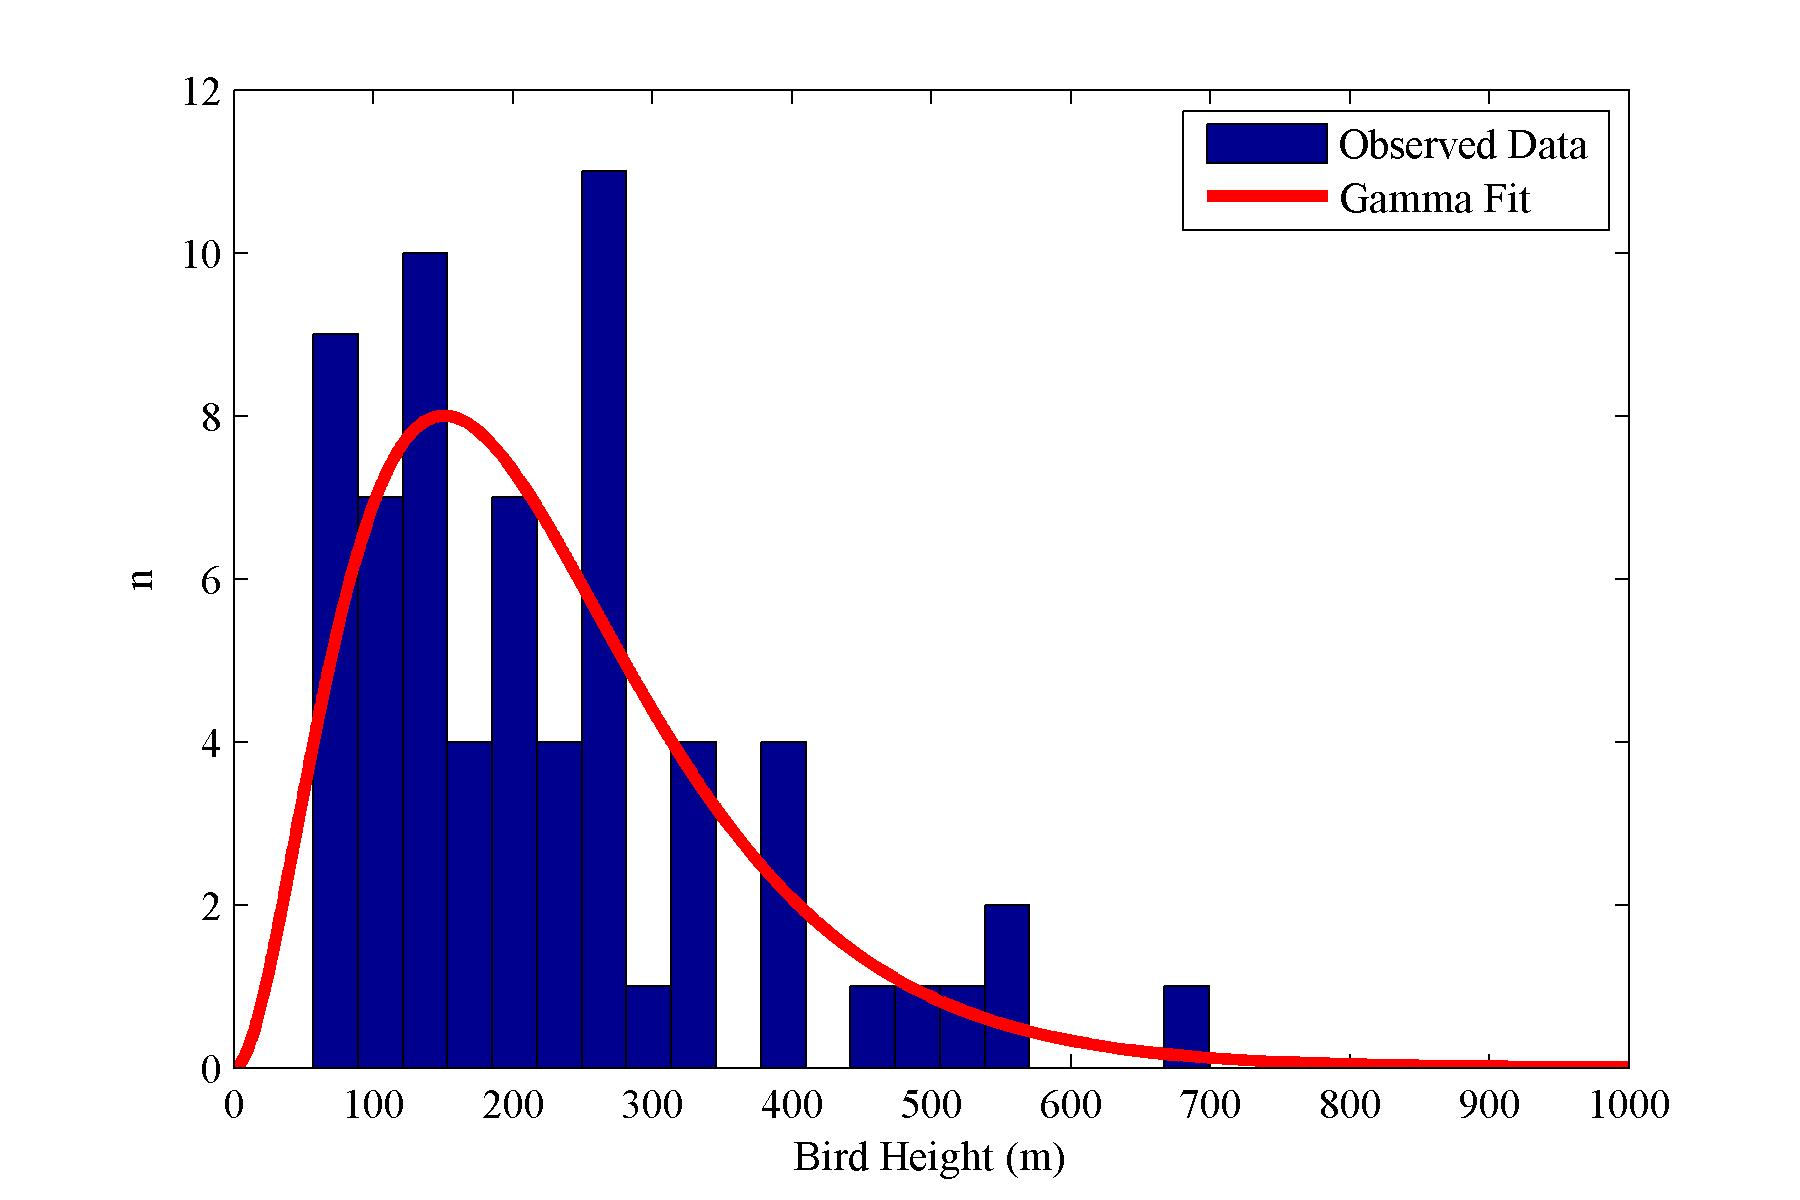
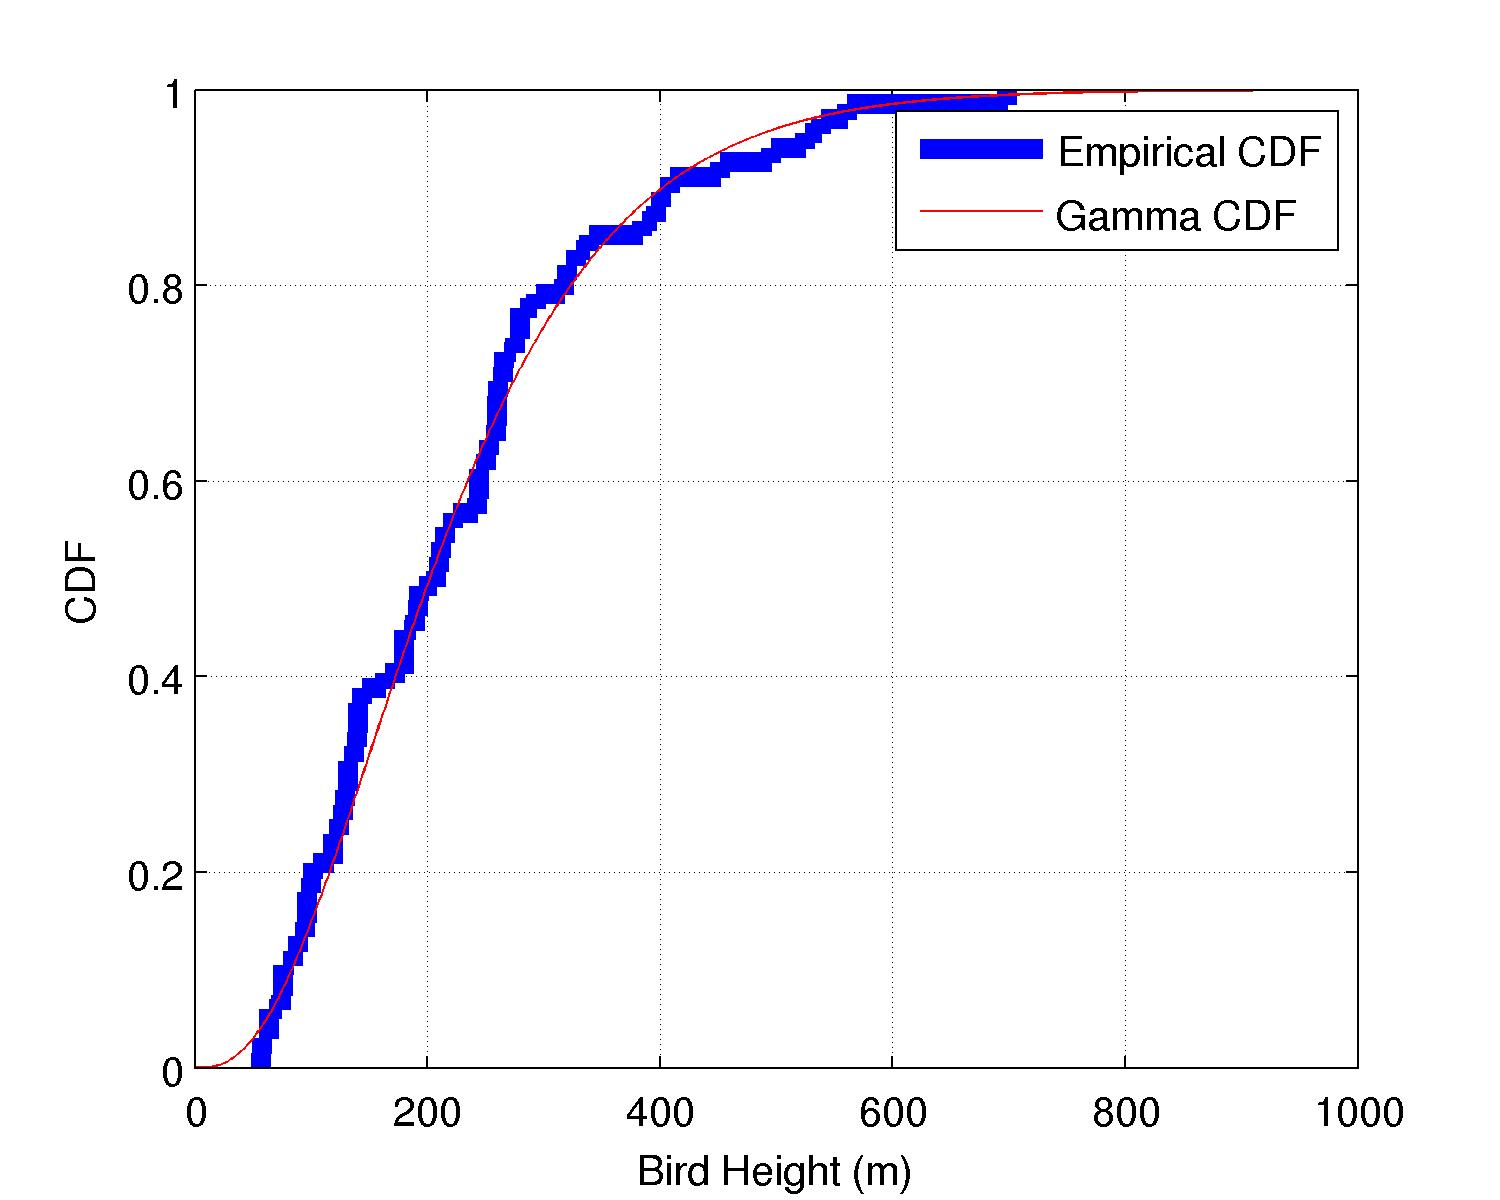
Added new workflow diagram. Updated gamma fit firgure to show cdfs.

diff --git a/Projects/Auwahi/testDistributions.m b/Projects/Auwahi/testDistributions.m
@@ -38,23 +38,48 @@
 % theta = 2*pi*rand(1,50);
 % rose(theta,16)
 
+
+%%%%%%%%%%%%%%%%%%%%%%%%%%%%%%%%
+% Start Flight Heights
+%%%%%%%%%%%%%%%%%%%%%%%%%%%%%%%%
 load flight_heights
 figure;
+maxval = 800;
+evaluationPoints = 1:maxval;
+subplot(2,1,1)
 hist(flight_heights,20);
 h = findobj(gca,'Type','patch');
 set(h,'FaceColor',[0.7 0.7 0.7],'EdgeColor',[0.7 0.7 0.7])
 
-xlim([0 1000])
+xlim([0 maxval])
 [a b] = gamfit(flight_heights);
-p = gampdf(1:0.1:1000,a(1),a(2));
+p = gampdf(evaluationPoints,a(1),a(2));
 % pinv = gamcdf([99.95 130.5 125],a(1),a(2));
 % figure;
 hold on
-ph = plot(1:0.1:1000,8*p/max(p),'r')
+ph = plot(evaluationPoints,8*p/max(p),'r')
 set(ph,'LineWidth',3);
 xlabel('Bird Height (m)');
 ylabel('n')
 legend({'Observed Data','Gamma Fit'})
+
+subplot(2,1,2)
+hold on
+p1 = plot(evaluationPoints', gamcdf(evaluationPoints,a(1),a(2))','r');
+set(p1,'LineWidth',3)
+p2 = cdfplot(flight_heights);
+set(p2,'LineWidth',3)
+title('');
+xlabel('Bird Height (m)');
+ylabel('CDF');
+legend({'Gamma CDF','Observed CDF'});
+PrintFigure('GammaFitTest','png',5,4);
+%%%%%%%%%%%%%%%%%%%%%%%%%%%%%%%%
+% End Flight Heights
+%%%%%%%%%%%%%%%%%%%%%%%%%%%%%%%%
+
+
+
 
 [bird_speed_pdf ...
  bird_direction_pdf ...

diff --git a/Projects/Auwahi/gamma_goodness_of_fit.m b/Projects/Auwahi/gamma_goodness_of_fit.m
@@ -6,13 +6,21 @@ b = 75.8201;
 load flight_heights
 data = flight_heights;
 
-cdf_sample = 0:1:round(max(data))+1;
+% cdf_sample = 0:1:round(max(data))+1;
+cdf_sample = 0:1:1000;
 cdf = [cdf_sample' gamcdf(cdf_sample,a,b)'];
 
 figure
-cdfplot(data);
-% figure
 hold on
-plot(cdf_sample', gamcdf(cdf_sample,a,b)','r')
+p2 = plot(cdf_sample', gamcdf(cdf_sample,a,b)','r')
+p1 = cdfplot(data);
+set(p1,'LineWidth',3)
+set(p2,'LineWidth',3)
+title('');
+xlabel('Bird Height (m)');
+ylabel('CDF');
+legend({'Gamma CDF','Empirical CDF'});
+PrintFigure('GammaFitTest','png',5,4);
 
 [h,p,ksstat,cv] = kstest(data, cdf, 0.05)
+
